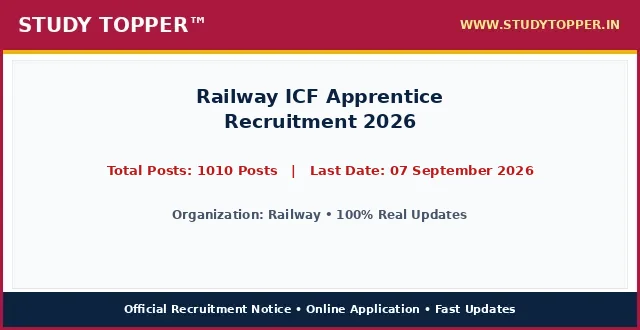
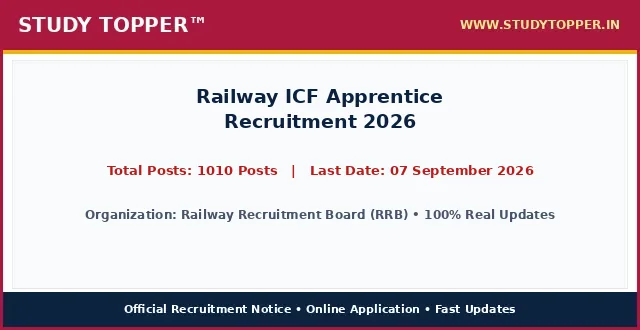
chore(lifecycle): daily auto-sort vacancies and update active dates

Changed region(s): [[0.125, 0.6364, 0.875, 0.6667]]

diff --git a/pages/railway-icf-apprentice-2026.html b/pages/railway-icf-apprentice-2026.html
@@ -987,12 +987,12 @@ ul.wp-block-latest-posts a:hover {
 <main class="site-main" id="main">
 <div class="gb-container gb-container-b39c368c">
 <h1 class="gb-headline gb-headline-e52a0102 gb-headline-text" style="font-size: 22px; font-weight: 700; color: #0000cd; text-align: left; margin: 8px 0 4px 0; line-height: 1.3; width: 100%; font-family: '-apple-system, BlinkMacSystemFont, 'Segoe UI', Roboto, 'Helvetica Neue', Arial, sans-serif', Times, serif, Hind, sans-serif;">Railway ICF Apprentice Recruitment 2026</h1>
-<div class="gb-container gb-container-659bd175"><p style="color: #cd0808; font-weight: 700; font-size: 15px; margin: 2px 0 7px 0; text-align: left; font-family: '-apple-system, BlinkMacSystemFont, 'Segoe UI', Roboto, 'Helvetica Neue', Arial, sans-serif', Times, serif, Hind, sans-serif;">Post Date: August 22, 2026 12:42 PM</p></div>
-<p class="gb-headline gb-headline-550ae316 short_Details gb-headline-text" style="width: 100%; max-width: 100%; font-size: 16.8px; line-height: 1.55; color: #000000; text-align: justify; text-justify: inter-word; margin: 8px 0 14px 0; display: block; font-family: '-apple-system, BlinkMacSystemFont, 'Segoe UI', Roboto, 'Helvetica Neue', Arial, sans-serif', Times, serif, Hind, sans-serif;"><strong style="color: #0000cd;">Railway</strong> has officially published the recruitment notice <strong style="color: #cd0808;">Railway ICF Apprentice Recruitment 2026</strong> under notification number 2026. Online applications are invited for 1010 Posts across multiple departments and cadre positions. Interested candidates possessing the requisite educational qualifications and falling between 18 Years to 40 Years can complete their online registration before the application deadline of 07 September 2026. Applicants should read the eligibility criteria, category reservation rules, and exam scheme thoroughly before submitting applications.</p>
+<div class="gb-container gb-container-659bd175"><p style="color: #cd0808; font-weight: 700; font-size: 15px; margin: 2px 0 7px 0; text-align: left; font-family: '-apple-system, BlinkMacSystemFont, 'Segoe UI', Roboto, 'Helvetica Neue', Arial, sans-serif', Times, serif, Hind, sans-serif;">Post Date: August 22, 2026 12:53 PM</p></div>
+<p class="gb-headline gb-headline-550ae316 short_Details gb-headline-text" style="width: 100%; max-width: 100%; font-size: 16.8px; line-height: 1.55; color: #000000; text-align: justify; text-justify: inter-word; margin: 8px 0 14px 0; display: block; font-family: '-apple-system, BlinkMacSystemFont, 'Segoe UI', Roboto, 'Helvetica Neue', Arial, sans-serif', Times, serif, Hind, sans-serif;"><strong style="color: #0000cd;">Railway Recruitment Board (RRB)</strong> has officially published the recruitment notice <strong style="color: #cd0808;">Railway ICF Apprentice Recruitment 2026</strong> under notification number Official Notification 2026. Online applications are invited for 1010 Posts across multiple departments and cadre positions. Interested candidates possessing the requisite educational qualifications and falling between 18 Years to 40 Years can complete their online registration before the application deadline of 07 September 2026. Applicants should read the eligibility criteria, category reservation rules, and exam scheme thoroughly before submitting applications.</p>
 <div class="gb-container gb-container-9849916c"><div class="social-buttons-compact" style="display: flex; justify-content: flex-start; align-items: center; gap: 10px; margin: 10px 0 16px 0; width: 100%;"><a class="social-btn-compact wa" href="https://whatsapp.com/channel/0029Va9xyz" rel="noopener" style="background-color: #00d084; color: #ffffff; padding: 10px 18px; border-radius: 4px; text-decoration: none; font-weight: bold; font-size: 15.5px; display: inline-flex; align-items: center; justify-content: center; height: auto;" target="_blank">WhatsApp</a><a class="social-btn-compact tg" href="https://t.me/studytopperofficial" rel="noopener" style="background-color: #0088cc; color: #ffffff; padding: 10px 18px; border-radius: 4px; text-decoration: none; font-weight: bold; font-size: 15.5px; display: inline-flex; align-items: center; justify-content: center; height: auto;" target="_blank">Telegram</a></div></div>
 <div class="gb-container gb-container-f58e6ca1" style="border: 2px solid #5b032f; border-radius: 4px; overflow: hidden; margin: 15px 0 20px 0; background-color: #ffffff; width: 100%; box-sizing: border-box;">
 <h2 class="gb-headline gb-headline-2ca5a791 gb-headline-text" style="font-size: 16px; font-weight: 700; text-align: center; color: #ef0303; line-height: 1.3; padding: 6px 4px; margin: 0; background: #ffffff; font-family: '-apple-system, BlinkMacSystemFont, 'Segoe UI', Roboto, 'Helvetica Neue', Arial, sans-serif', Times, serif, Hind, sans-serif;">Railway ICF Apprentice Recruitment 2026 &ndash; Latest Details &amp; Updates</h2>
-<h3 class="gb-headline gb-headline-7d5f86e8 gb-headline-text" style="font-size: 16px; font-weight: 600; text-align: center; color: #009703; line-height: 1.25; margin: 0; padding: 2px 4px 6px 4px; background: #ffffff; font-family: '-apple-system, BlinkMacSystemFont, 'Segoe UI', Roboto, 'Helvetica Neue', Arial, sans-serif', Times, serif, Hind, sans-serif;">Railway : Details &amp; Summary</h3>
+<h3 class="gb-headline gb-headline-7d5f86e8 gb-headline-text" style="font-size: 16px; font-weight: 600; text-align: center; color: #009703; line-height: 1.25; margin: 0; padding: 2px 4px 6px 4px; background: #ffffff; font-family: '-apple-system, BlinkMacSystemFont, 'Segoe UI', Roboto, 'Helvetica Neue', Arial, sans-serif', Times, serif, Hind, sans-serif;">Railway Recruitment Board (RRB) : Details &amp; Summary</h3>
 <p class="gb-headline gb-headline-79adf169 gb-headline-text" style="margin: 0 0 6px 0; font-family: '-apple-system, BlinkMacSystemFont, 'Segoe UI', Roboto, 'Helvetica Neue', Arial, sans-serif', Times, serif, Hind, sans-serif; text-align: center; font-size: 18px; font-weight: 700;"><a href="/" style="color: #0000ff; text-decoration: underline;">StudyTopper.in</a></p>
 
 <style id="st-post-boxes-responsive-css">
@@ -1025,7 +1025,7 @@ ul.wp-block-latest-posts a:hover {
     <div style="background-color: #5b032f; color: #ffffff; padding: 8px 10px; font-size: 20px; font-weight: 700; text-align: center; font-family: '-apple-system, BlinkMacSystemFont, 'Segoe UI', Roboto, 'Helvetica Neue', Arial, sans-serif', Times, serif, Hind, sans-serif;">Important Dates</div>
     <div style="padding: 12px 14px; background-color: #ffffff;">
       <ul style="padding-left: 20px; margin: 0; list-style-type: disc; text-align: left; font-size: 14pt; line-height: 1.6; font-family: '-apple-system, BlinkMacSystemFont, 'Segoe UI', Roboto, 'Helvetica Neue', Arial, sans-serif', Times, serif, Hind, sans-serif;">
-        <li><span style="font-size: 14pt;">Application Begin : <strong>As per Official Notification</strong></span></li><li><span style="font-size: 14pt;">Last Date for Apply Online : <span style="color: #ff0000;"><strong>07 September 2026</strong></span></span></li><li><span style="font-size: 14pt;">Pay Exam Fee Last Date : <span style="color: #ff0000;"><strong>07 September 2026</strong></span></span></li><li><span style="font-size: 14pt;">Exam Date : <strong>As per Schedule</strong></span></li><li><span style="font-size: 14pt;">Admit Card Available : <strong>Before Examination</strong></span></li>
+        <li><span style="font-size: 14pt;">Application Begin : <strong>Check Official Notification</strong></span></li><li><span style="font-size: 14pt;">Last Date for Apply Online : <span style="color: #ff0000;"><strong>07 September 2026</strong></span></span></li><li><span style="font-size: 14pt;">Pay Exam Fee Last Date : <span style="color: #ff0000;"><strong>07 September 2026</strong></span></span></li><li><span style="font-size: 14pt;">Exam Date : <strong>As per Schedule</strong></span></li>
       </ul>
     </div>
   </div>
@@ -1034,7 +1034,7 @@ ul.wp-block-latest-posts a:hover {
     <div style="background-color: #5b032f; color: #ffffff; padding: 8px 10px; font-size: 20px; font-weight: 700; text-align: center; font-family: '-apple-system, BlinkMacSystemFont, 'Segoe UI', Roboto, 'Helvetica Neue', Arial, sans-serif', Times, serif, Hind, sans-serif;">Application Fee</div>
     <div style="padding: 12px 14px; background-color: #ffffff;">
       <ul style="padding-left: 20px; margin: 0; list-style-type: disc; text-align: left; font-size: 14pt; line-height: 1.6; font-family: '-apple-system, BlinkMacSystemFont, 'Segoe UI', Roboto, 'Helvetica Neue', Arial, sans-serif', Times, serif, Hind, sans-serif;">
-        <li><span style="font-size: 14pt;">General / OBC / EWS : <strong>Check Official Notification</strong></span></li><li><span style="font-size: 14pt;">SC / ST / PH : <strong>Check Official Notification</strong></span></li><li><span style="font-size: 14pt;">Payment Mode : <strong>Online Fee Mode via Net Banking, Debit/Credit Card or Offline Challan</strong></span></li>
+        <li><span style="font-size: 14pt;">General / OBC / EWS : <strong>Check Official Notification</strong></span></li><li><span style="font-size: 14pt;">SC / ST / PH : <strong>Check Official Notification</strong></span></li><li><span style="font-size: 14pt;">Payment Mode : <strong>Online / Offline Fee Mode as per Notification</strong></span></li>
       </ul>
       <div style="margin-top: 10px; font-size: 14pt; line-height: 1.5; color: #000000; border-top: 1px dashed #ccc; padding-top: 8px; font-family: '-apple-system, BlinkMacSystemFont, 'Segoe UI', Roboto, 'Helvetica Neue', Arial, sans-serif', Times, serif, Hind, sans-serif;">
         <strong>Mode of Payment / Access:</strong> Online via Net Banking, Debit Card, Credit Card, UPI or Free Candidate Portal.
@@ -1047,10 +1047,10 @@ ul.wp-block-latest-posts a:hover {
 <div class="st-grid-row" style="display: flex; flex-wrap: wrap; width: 100%; border-top: 2px solid #5b032f; margin: 0; padding: 0; box-sizing: border-box;">
   <!-- Left Col: Age Limits -->
   <div class="st-col-half st-col-border-right" style="box-sizing: border-box; vertical-align: top;">
-    <div style="background-color: #046132; color: #ffffff; padding: 8px 10px; font-size: 17px; font-weight: 700; text-align: center; font-family: '-apple-system, BlinkMacSystemFont, 'Segoe UI', Roboto, 'Helvetica Neue', Arial, sans-serif', Times, serif, Hind, sans-serif;">Railway : Age Limits As On 01/08/2026</div>
+    <div style="background-color: #046132; color: #ffffff; padding: 8px 10px; font-size: 17px; font-weight: 700; text-align: center; font-family: '-apple-system, BlinkMacSystemFont, 'Segoe UI', Roboto, 'Helvetica Neue', Arial, sans-serif', Times, serif, Hind, sans-serif;">Railway Recruitment Board (RRB) : Age Limits As On 01/08/2026</div>
     <div style="padding: 12px 14px; background-color: #ffffff;">
       <ul style="padding-left: 20px; margin: 0; list-style-type: disc; text-align: left; font-size: 14pt; line-height: 1.6; font-family: '-apple-system, BlinkMacSystemFont, 'Segoe UI', Roboto, 'Helvetica Neue', Arial, sans-serif', Times, serif, Hind, sans-serif;">
-        <li><span style="font-size: 14pt;">Minimum Age : <strong>18 Years (As per post rules)</strong></span></li><li><span style="font-size: 14pt;">Maximum Age : <strong>40 Years (As per post rules)</strong></span></li><li><span style="font-size: 14pt;">Age Relaxation : <strong>Age Relaxation Extra as per Railway Recruitment Rules.</strong></span></li>
+        <li><span style="font-size: 14pt;">Minimum Age : <strong>18 Years (As per post rules)</strong></span></li><li><span style="font-size: 14pt;">Maximum Age : <strong>40 Years (As per post rules)</strong></span></li><li><span style="font-size: 14pt;">Age Relaxation : <strong>Age Relaxation Extra as per Railway Recruitment Board (RRB) Recruitment Rules.</strong></span></li>
       </ul>
     </div>
   </div>
@@ -1097,10 +1097,10 @@ ul.wp-block-latest-posts a:hover {
 <table style="border-collapse: collapse; width: 100%;">
 <tbody>
 <tr>
-<td style="width: 100%; text-align: center;"><span style="background-color: #000080; color: #ffffff; font-size: 14pt; font-weight: bold; display: block; padding: 6px;"> How to Fill Railway Online Application Form </span></td>
+<td style="width: 100%; text-align: center;"><span style="background-color: #000080; color: #ffffff; font-size: 14pt; font-weight: bold; display: block; padding: 6px;"> How to Fill Railway Recruitment Board (RRB) Online Application Form </span></td>
 </tr>
 <tr>
-<td style="width: 100%;"><ol style="margin:0; padding-left:18px; text-align: left !important; list-style-position: outside !important"><li style="margin-bottom:6px; text-align: left !important;">Candidate must read the complete official notification issued by Railway before applying.</li><li style="margin-bottom:6px; text-align: left !important;">Collect and verify all essential documents including Educational Proof, ID Proof, Address Details, and Basic Details.</li><li style="margin-bottom:6px; text-align: left !important;">Scan all necessary documents accurately: Passport Size Photograph, Signature, ID Proof, and Category Certificate.</li><li style="margin-bottom:6px; text-align: left !important;">Click on the 'Apply Online' link given in the Important Links section below on StudyTopper.</li><li style="margin-bottom:6px; text-align: left !important;">Fill all required personal, educational, and communication details in the application form carefully.</li><li style="margin-bottom:6px; text-align: left !important;">Review the application form preview thoroughly before final submission.</li><li style="margin-bottom:6px; text-align: left !important;">Pay the prescribed examination fee through online payment gateway if applicable.</li><li style="margin-bottom:6px; text-align: left !important;">Take a clean printout of the final submitted application form for future reference.</li><li style="margin-bottom:6px; text-align: left !important;">Resize candidate photograph and signature accurately using the <a href="https://indtool.in" rel="noopener" target="_blank"><strong>StudyTopper Tools</strong></a> image resizer at indtool.in.</li></ol></td>
+<td style="width: 100%;"><ol style="margin:0; padding-left:18px; text-align: left !important; list-style-position: outside !important"><li style="margin-bottom:6px; text-align: left !important;">Read the official recruitment notification carefully before applying.</li><li style="margin-bottom:6px; text-align: left !important;">Keep all basic documents ready: ID Proof, Address Details, Basic Details.</li><li style="margin-bottom:6px; text-align: left !important;">Ready your scanned documents like Photo, Signature, ID Proof, etc.</li><li style="margin-bottom:6px; text-align: left !important;">Click on the 'Apply Online' link given in the Important Links section below.</li><li style="margin-bottom:6px; text-align: left !important;">Fill out all the columns in the application form accurately.</li><li style="margin-bottom:6px; text-align: left !important;">Pay the required application fee if applicable.</li><li style="margin-bottom:6px; text-align: left !important;">Take a printout of the final submitted application form.</li><li style="margin-bottom:6px; text-align: left !important;">Resize candidate photograph and signature accurately using the <a href="https://indtool.in" rel="noopener" target="_blank"><strong>StudyTopper Tools</strong></a> image resizer at indtool.in.</li></ol></td>
 </tr>
 </tbody>
 </table>
@@ -1108,7 +1108,7 @@ ul.wp-block-latest-posts a:hover {
 <table style="border-collapse: collapse; width: 100%;">
 <tbody>
 <tr>
-<td style="width: 100%; text-align: center;"><span style="background-color: #000080; color: #ffffff; font-size: 14pt;"><strong><span style="color: #ffffff;"> Railway Recruitment 2026 : Mode Of Selection </span></strong></span></td>
+<td style="width: 100%; text-align: center;"><span style="background-color: #000080; color: #ffffff; font-size: 14pt;"><strong><span style="color: #ffffff;"> Railway Recruitment Board (RRB) Recruitment 2026 : Mode Of Selection </span></strong></span></td>
 </tr>
 <tr>
 <td style="width: 100%;">
